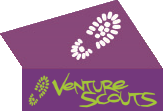
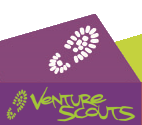
Updated HTML structure to Header.php

diff --git a/style.css b/style.css
@@ -140,7 +140,6 @@ a:hover {
 
 #social {
 	float: right;
-	width: 500px;
 	padding-top: 5px;
 	padding-right: 5px;
 	text-align: right;
@@ -170,9 +169,28 @@ a:hover {
 
 #logo {
 	float: left;
-	width: 208px;
-	height: 125px;
+	height: 150px;
 }
+#groupName{
+	font-size: xx-large;
+}
+/*headerMenu*/
+#headerMenu ul {margin: 0; padding: 0; 
+	list-style-type: none; list-style-image: none; }
+#headerMenu ul {margin: 0; padding: 0; 
+	list-style-type: none; list-style-image: none; }
+#headerMenu li {display: inline; }
+#headerMenu ul {margin: 0; padding: 0; 
+	list-style-type: none; list-style-image: none; }
+#headerMenu li {float: right;display: inline;  padding: 0px 5px 0px;}
+#headerMenu a {text-decoration:none; }
+#headerMenu a:hover {color: purple; }
+#headerMenu ul {margin: 0; padding: 0; 
+	list-style-type: none; list-style-image: none; }
+#headerMenu li {display: inline; }
+#headerMenu ul li a {text-decoration:none; }
+#headerMenu ul li a:hover {color: purple;
+	background: yellow; }
 
 .navigation {
 	width: 1000px;
@@ -194,15 +212,15 @@ a:hover {
 }
 
 .navigation ul{
-height: 34px;
-line-height: 34px;
+height: 50px;
+line-height: 50px;
 list-style: none;
 margin: 0;
 padding: 0;
 }
 
 .navigation li{
-float: left;
+float: right;
 padding: 0px;
 }
 
@@ -212,7 +230,6 @@ display: block;
 font-weight: bold;
 line-height: 34px;
 margin: 0px;
-padding: 0px 20px;
 text-align: center;
 text-decoration: none;
 }
@@ -260,13 +277,12 @@ height: 34px;
 font-size: 16px;
 font-style: normal;
 margin: 0px;
-padding: 0px 10px 0px 15px;
 text-align: left;
 }
 
 .navigation li ul a:hover,
 .navigation li ul li:hover a{
-background-color: #522e91;
+/*background-color: #522e91;*/
 color: #ffffff;
 border: 0px;
 text-decoration: none;
@@ -439,14 +455,6 @@ text-decoration: none;
 .sidebar-purple-box-content a:hover {
     text-decoration: underline;
 }
-
-
-
-
-
-
-
-
 
 .sidebar-box-menu ul a {
 	color: #ffffff;

diff --git a/NagigationCSSClean.css b/NagigationCSSClean.css
@@ -1,0 +1,97 @@
+.navigation {
+	width: 1000px;
+	height: 34px;
+	line-height: 34px;
+	margin-left: auto;
+	margin-right: auto;
+	border-top: dashed 1px #E0E0E0 ;
+	border-bottom: dashed 1px #E0E0E0 ;
+	font-size: 16px;
+}
+
+.drop_down {
+	background: url(_/img/dropdown.png) bottom center no-repeat;
+}
+
+.drop_down a:hover {
+	background: url(_/img/dropdown_hover.png) bottom center no-repeat;
+}
+
+.navigation ul{
+height: 34px;
+line-height: 34px;
+list-style: none;
+margin: 0;
+padding: 0;
+}
+
+.navigation li{
+float: left;
+padding: 0px;
+}
+
+.navigation li a{
+color: #522e91;
+display: block;
+font-weight: bold;
+line-height: 34px;
+margin: 0px;
+padding: 0px 20px;
+text-align: center;
+text-decoration: none;
+}
+
+.navigation li a:hover{
+background-color: #522e91;
+color: #ffffff;
+text-decoration: none;
+}
+
+.navigation li ul{
+background-color: #ffffff;
+border-left: dashed 2px #E0E0E0;
+border-bottom: dashed 2px #E0E0E0;
+border-right: dashed 2px #E0E0E0;
+color: #243f5c;
+display: none;
+height: auto;
+padding: 0px;
+margin: 0px;
+position: absolute;
+width: 225px;
+z-index: 200;
+}
+
+.navigation li:hover ul{
+display: block;
+}
+
+.navigation li li {
+display: block;
+float: none;
+margin: 0px;
+padding: 0px;
+width: 225px;
+}
+
+.navigation li:hover li a{
+background: none;
+}
+
+.navigation li ul a{
+display: block;
+height: 34px;
+font-size: 16px;
+font-style: normal;
+margin: 0px;
+padding: 0px 10px 0px 15px;
+text-align: left;
+}
+
+.navigation li ul a:hover,
+.navigation li ul li:hover a{
+background-color: #522e91;
+color: #ffffff;
+border: 0px;
+text-decoration: none;
+}

diff --git a/header.php b/header.php
@@ -49,25 +49,21 @@
 </head>
 <body <?php body_class(); ?>>
 <div id="main-wrapper">
-<div id="header">
-        
-        <div id="logo"><a href="/"><img src="<?php header_image(); ?>" width="<?php echo HEADER_IMAGE_WIDTH; ?>" height="<?php echo HEADER_IMAGE_HEIGHT; ?>" alt="<?php bloginfo( 'name' ); ?>" /></a></div>
-        
-        <div id="social"><strong>Leaders:</strong> <a href="/wp-admin/" target="_blank">Administration</a> | <a href="https://www.onlinescoutmanager.co.uk/" target="_blank">Online Scout Manager</a></div>
-        <br /><br /><br />
-<!-- TO DO: finish Advertising widget
-<div id="adheader">
-<a href="#" target="_blank"><img src="<?php bloginfo('template_directory'); ?>/_/img/banner.gif" width="468" height="60" border="0"  /></a>
-</div>
--->
-</div>
-<div class="clear" style="padding-top:10px;"></div>
-<div class="navigation">
-<?php wp_nav_menu(array('theme_location' => 'custom_menu')); ?>
-</div>
-<div class="clear" style="padding-top:10px;"></div>
-<div id='middle'>
-<div id='join'><img src="<?php bloginfo('template_directory'); ?>/_/img/breadcrumb_jointheadventure.gif" width="125" height="30" alt="Join the adventure!" /></div>
-<div id='search'><?php get_search_form(); ?></div>
-</div>
+    <div id="header">
+         <div id="headerMenu"><?php wp_nav_menu(array('theme_location' => 'header_menu')); ?></div>
+            <div id="logo">
+                    <a href="/"><img src="<?php header_image(); ?>" width="<?php echo HEADER_IMAGE_WIDTH; ?>" height="<?php echo HEADER_IMAGE_HEIGHT; ?>" alt="<?php bloginfo( 'name' ); ?>" /></a>
+            </div>
+                <div id="groupName"><?php bloginfo( 'name' ); ?>
+            </div> 
+                <br/><br/><br/>
+        <div class="navigation">
+            <?php wp_nav_menu(array('theme_location' => 'custom_menu')); ?>
+        </div>
+        <div class="clear" style="padding-top:10px;"></div>
+        <div id='middle'>
+            <div id='join'><img src="<?php bloginfo('template_directory'); ?>/_/img/breadcrumb_jointheadventure.gif" width="125" height="30" alt="Join the adventure!" /></div>
+            <div id='search'><?php get_search_form(); ?></div>
+        </div>
+    </div>
 <div class="clear" style="padding-top:10px;"></div>

diff --git a/functions.php b/functions.php
@@ -13,6 +13,9 @@ function scoutit_setup() {
     
     // Add default posts and comments RSS feed links to <head>.
     add_theme_support( 'automatic-feed-links' );
+
+    // Enable admin to set custom background images in 'appearance > background'
+    add_custom_background();
     
     // Register new custom menus for header bar and each section
     add_action( 'init', 'register_my_menus' );
@@ -20,6 +23,7 @@ function scoutit_setup() {
         register_nav_menus(
             array(
                 'custom_menu' => __( 'Main Menu' ),
+                'header_menu' => __( 'Menu in header Area' ),
                 'beavers_menu' => __( 'Menu on Beavers pages' ),
                 'cubs_menu' => __( 'Menu on Cubs pages' ),
                 'scouts_menu' => __( 'Menu on Scouts pages' ),
@@ -35,10 +39,10 @@ function scoutit_setup() {
     add_theme_support( 'post-thumbnails' );
     
     // Register support for custom header images
-    define( 'HEADER_IMAGE_WIDTH', apply_filters( 'twentyeleven_header_image_width', 228 ) );
-    define( 'HEADER_IMAGE_HEIGHT', apply_filters( 'twentyeleven_header_image_height', 125 ) );
+    define( 'HEADER_IMAGE_WIDTH', apply_filters( 'twentyeleven_header_image_width', 111 ) );
+    define( 'HEADER_IMAGE_HEIGHT', apply_filters( 'twentyeleven_header_image_height', 150 ) );
     define( 'HEADER_TEXTCOLOR', 'ffffff' );
-    define( 'HEADER_IMAGE', '%s/_/img/logo.png' ); // %s is the template dir uri
+    define( 'HEADER_IMAGE', '%s/_/img/SI_logoHeader.jpg' ); // %s is the template dir uri 
     add_custom_image_header( 'twentyeleven_header_style', 'twentyeleven_admin_header_style', 'twentyeleven_admin_header_image' );
     
     
